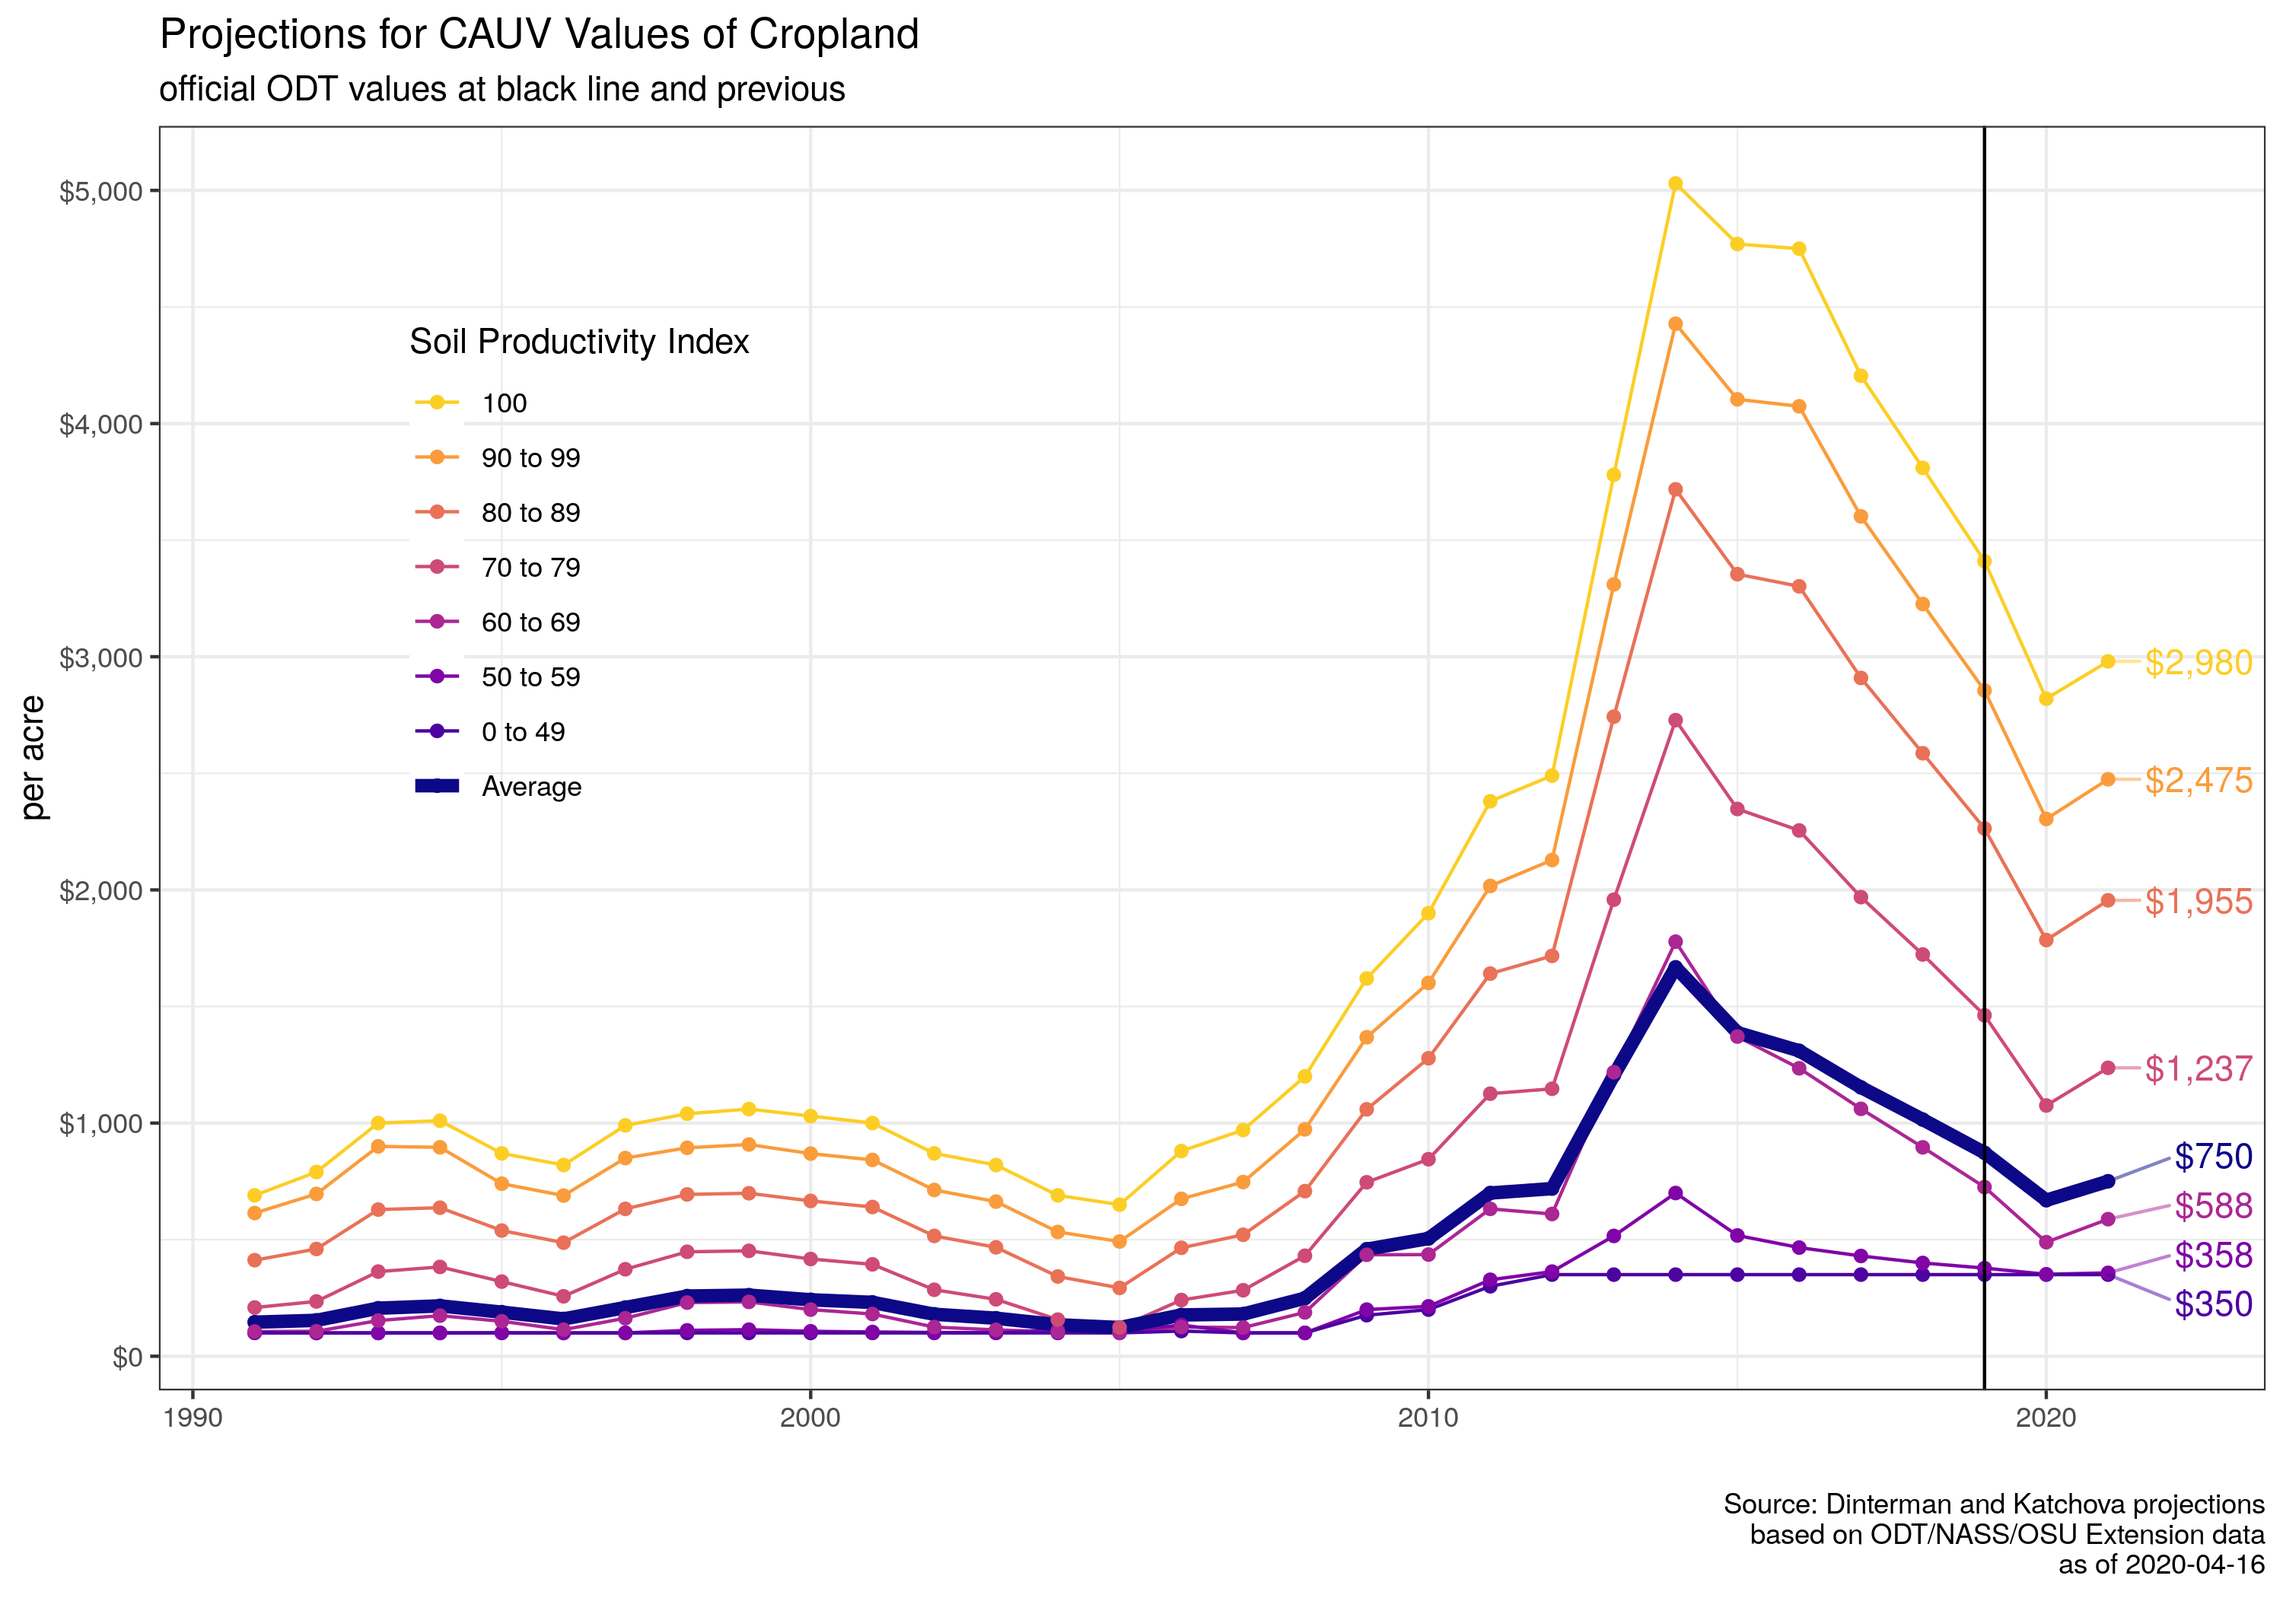
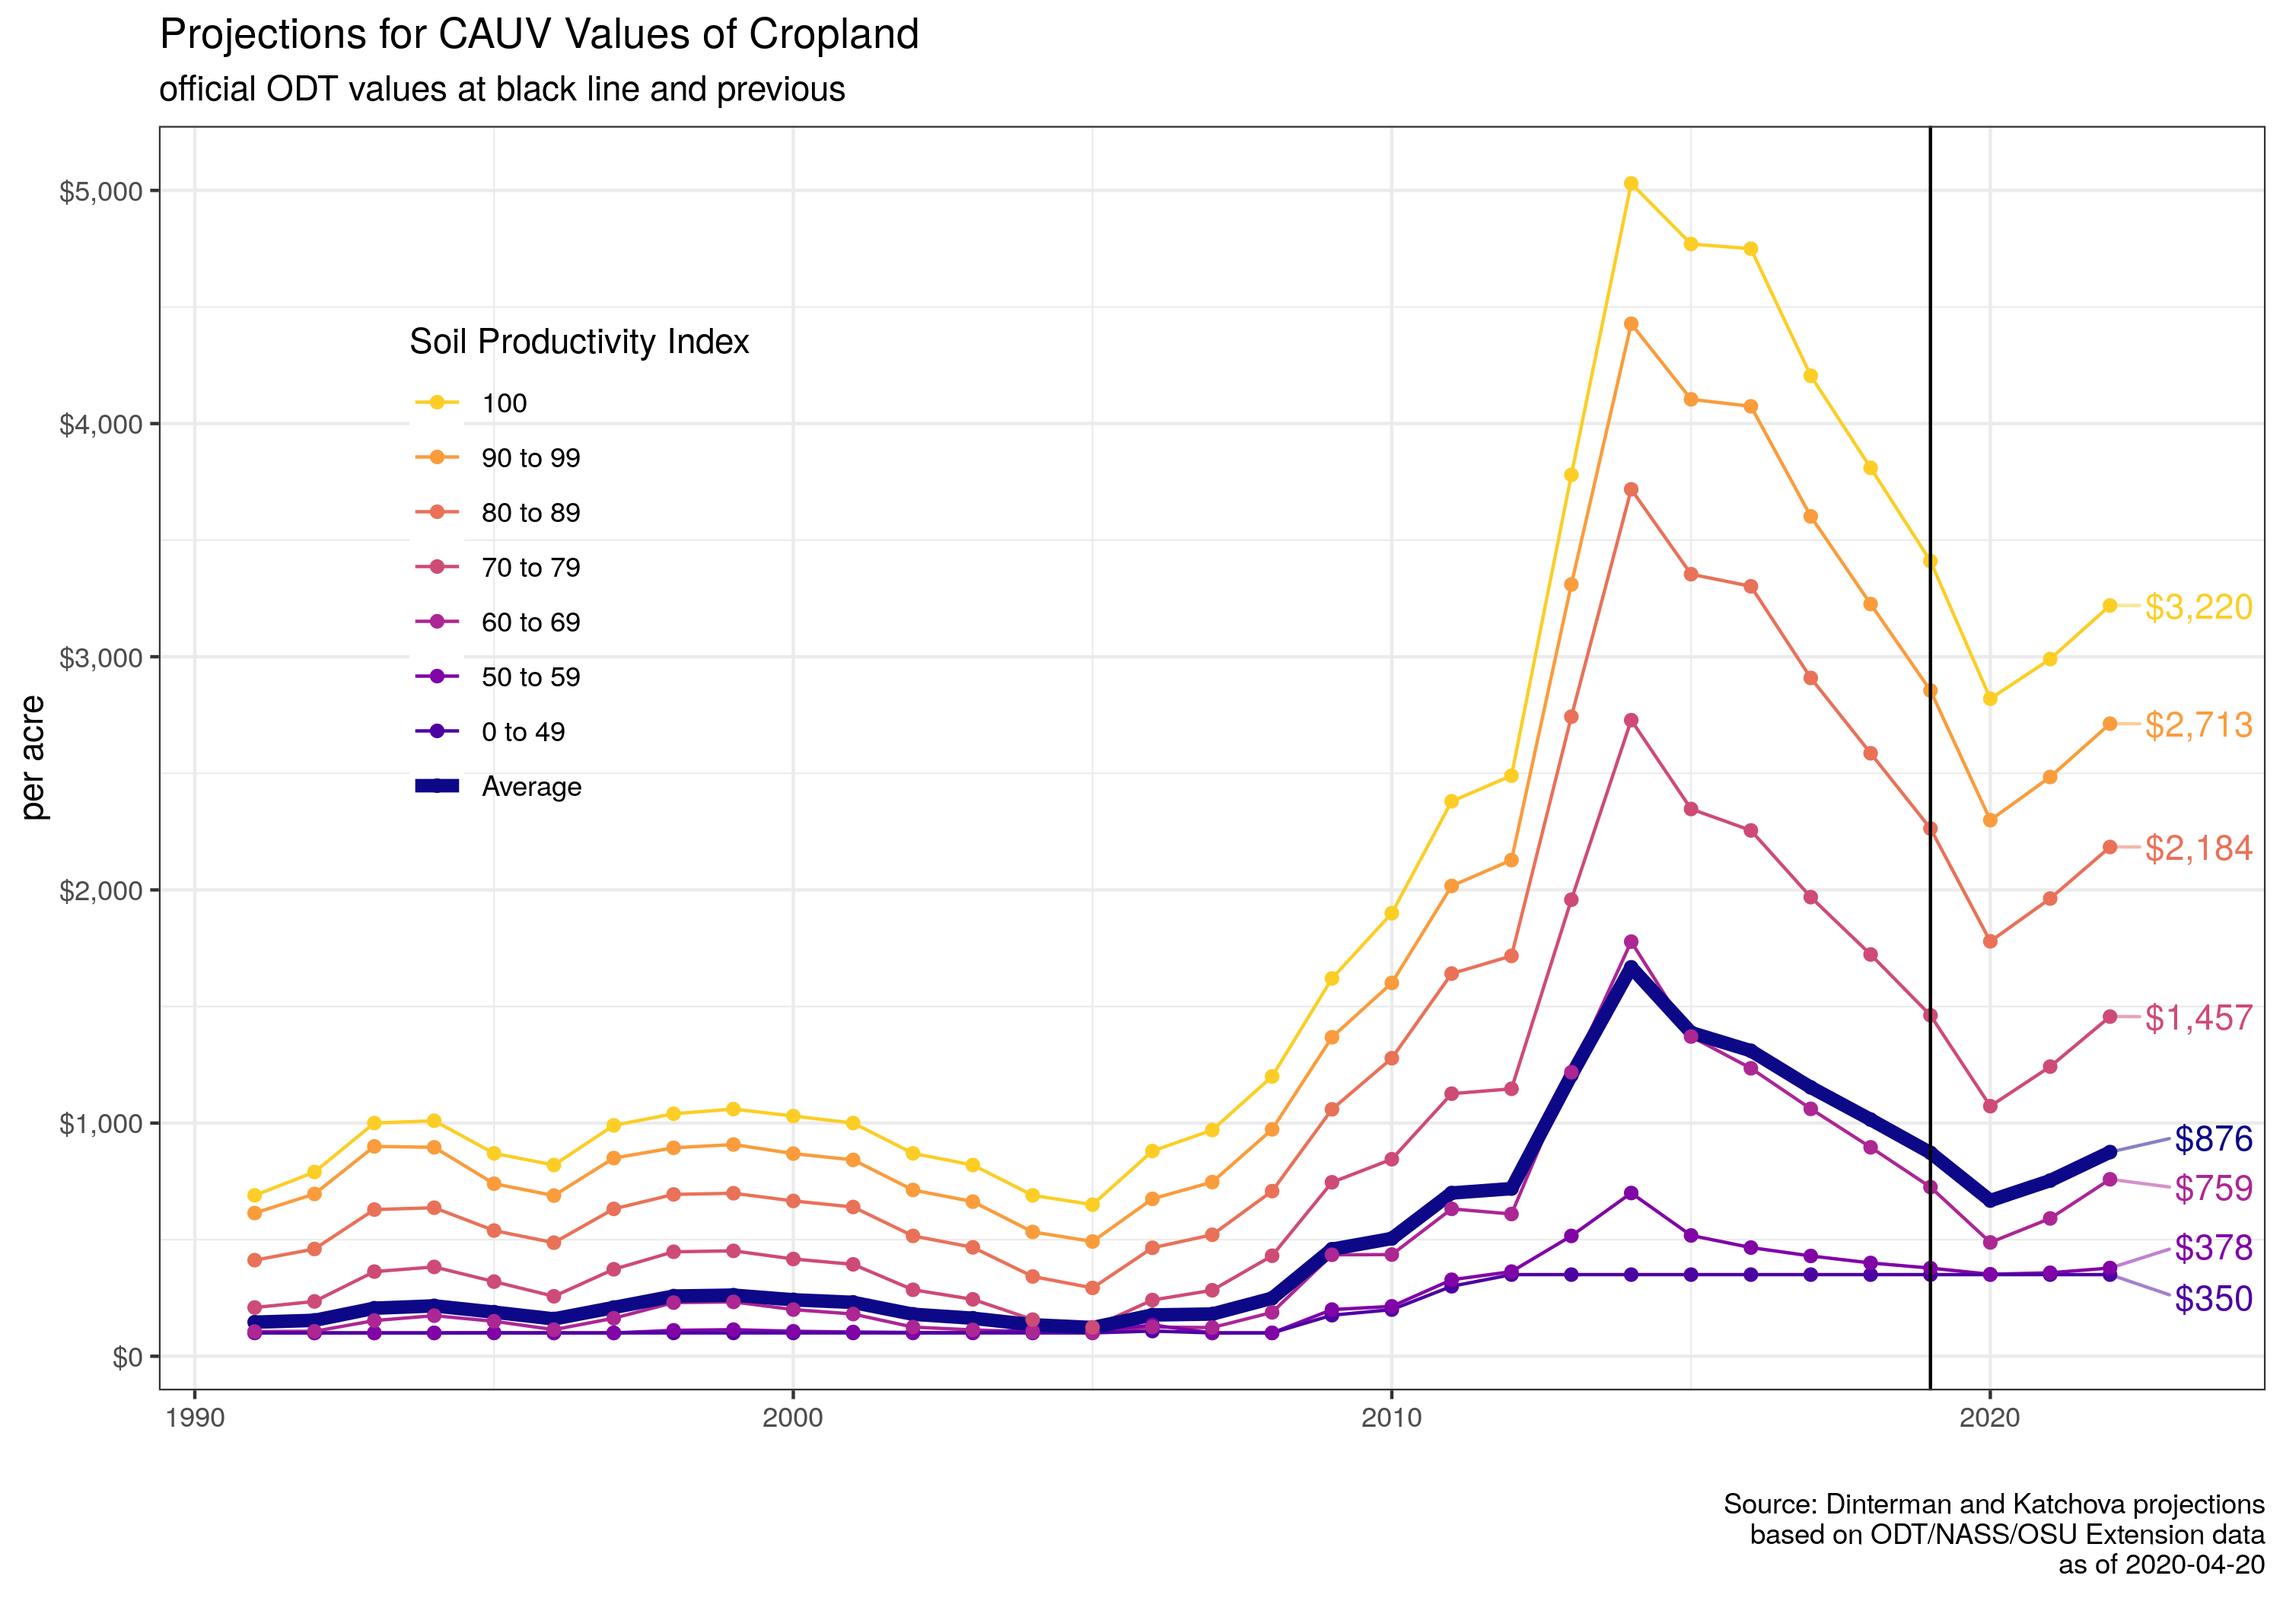
new readme

diff --git a/README.md b/README.md
@@ -1,14 +1,14 @@
 # CAUV
 
-Projections for Ohio's Current Agricultural Use Value (CAUV) Program for each soil type in Ohio, based on the [2017 formulation](https://ofbf.org/2017/08/24/cauv-reform-passed/) which substantially changed from previous years. The Ohio Department of Taxation (ODT) provides an [overview of the caclulation for CAUV values](https://www.tax.ohio.gov/real_property/cauv.aspx) which are used within this repository.
+The purpose of this repository is to have open source documentation of the calculation for Ohio's Current Agricultural Use Value (CAUV) Program. Secondarily, this repository produces projections for future CAUV values for soil types in Ohio. Likely of most interest is the [current projections](3-proj/) for CAUV that you can find by clicking that link. A more dynamic version with descriptions is available at [Ohio CAUV Value Projections for 2019 and 2020](4-presentations/4-projections-2019-2020) -- [PDF version also available](4-presentations/4-projections-2019-2020.pdf)
 
-The purpose of this repository is to have open source documentation of the calculation for CAUV values which can also be leveraged for projecting future values for soil types CAUV valuation. Likely of most interest is the [current projections](3-proj/) for CAUV that you can find by clicking that link. A more dynamic version with descriptions is available at [Ohio CAUV Value Projections for 2019 and 2020](4-presentations/4-projections-2019-2020) -- [PDF version also available](4-presentations/4-projections-2019-2020.pdf)
+The calculations and projections for each soil type in Ohio are based on the [2017 formulation](https://ofbf.org/2017/08/24/cauv-reform-passed/) which substantially changed the methodology for CAUV values from previous years. The Ohio Department of Taxation (ODT) provides an [overview of the caclulation for CAUV values](https://www.tax.ohio.gov/real_property/cauv.aspx) which are used within this repository.
 
-Current 2020 projection:
+Current projections:
 
-![](3-proj/figures/cauv_expected_projections_currently.png)
+[![](3-proj/figures/cauv_expected_projections_currently.png)](3-proj/figures/cauv_expected_projections_currently.png)
 
-Recommendations for alterating the calculation procedure for CAUV calculations to be presented 2020-01-08:
+Recommendations for altering the calculation procedure for CAUV calculations presented on 2020-01-08:
 
 - [Presentation](4-presentations/4-recommendations) (and in [PDF format](4-presentations/4-recommendations.pdf))
 - [Write-up](4-presentations/4-recommendations-writeup) (and in [PDF format](4-presentations/4-recommendations-writeup.pdf))
@@ -83,6 +83,7 @@ All categories are Olympic averages with the exception of rotation and yields.
 |     2017|2011-2017           |2007-2016 |2010-2016 |2011-2017      |2012-2016 |
 |     2018|2012-2018           |2008-2017 |2011-2017 |2012-2018      |2013-2017 |
 |     2019|2013-2019           |2009-2018 |2012-2018 |2013-2019      |2014-2018 |
+|     2020|2014-2020           |2010-2019 |2013-2019 |2014-2020      |2015-2019 |
 | Future Years|current to 6 years ago |previous to 11 years ago |previous to 7 years ago |current to 6 years ago |previous to 5 years ago |
 | Averaging|7 Olympic |10 Average, lagged |7 Olympic, lagged |7 Olympic |5 Average, lagged |
 
